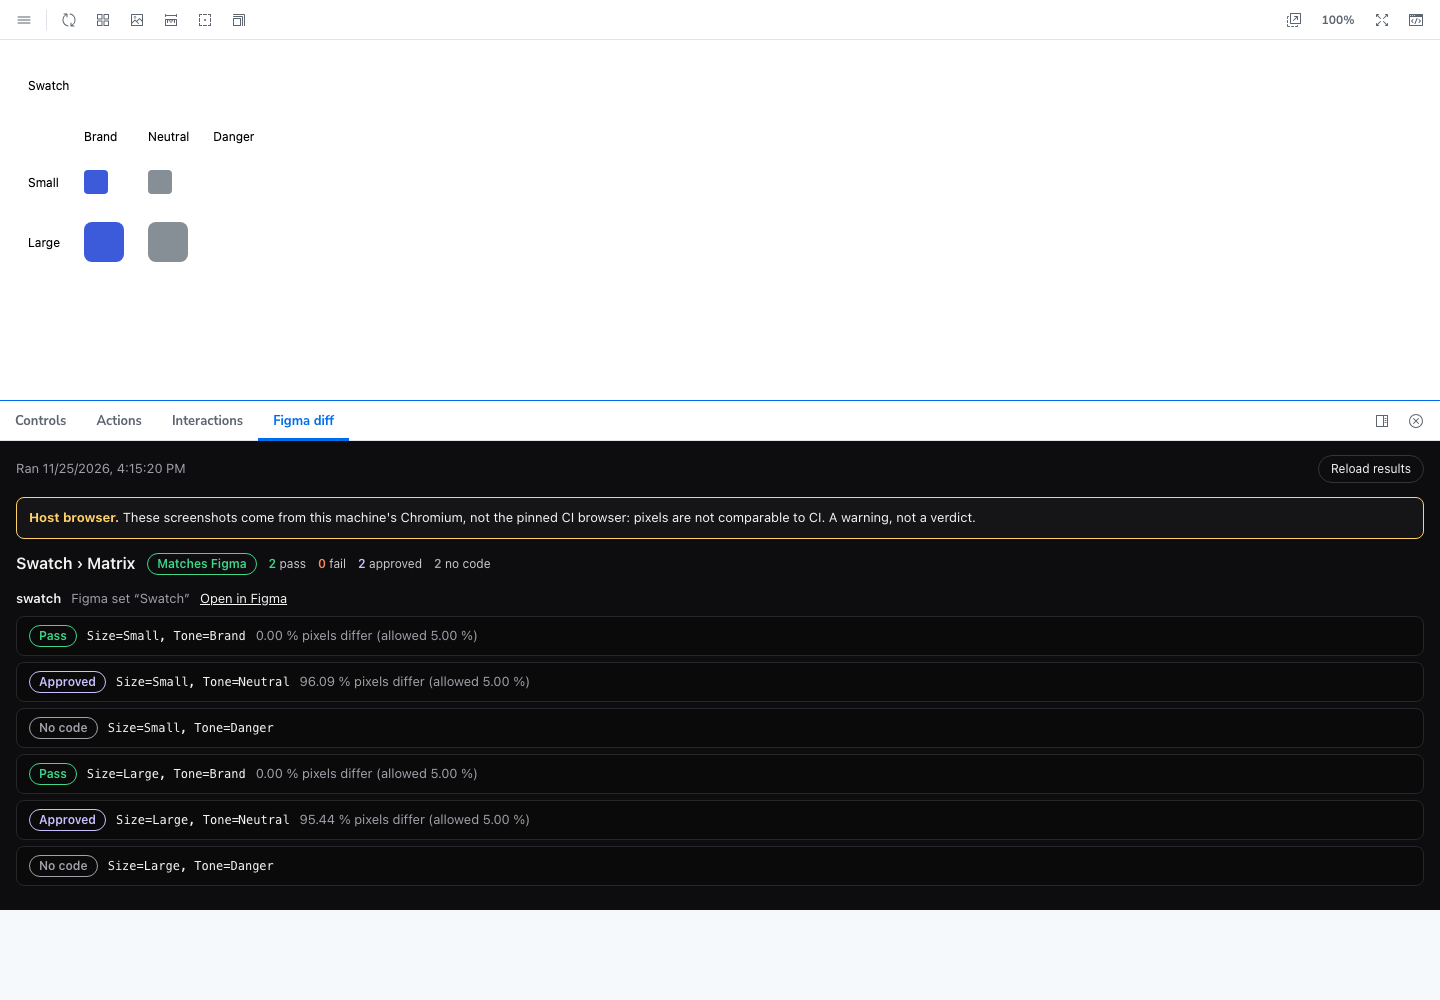
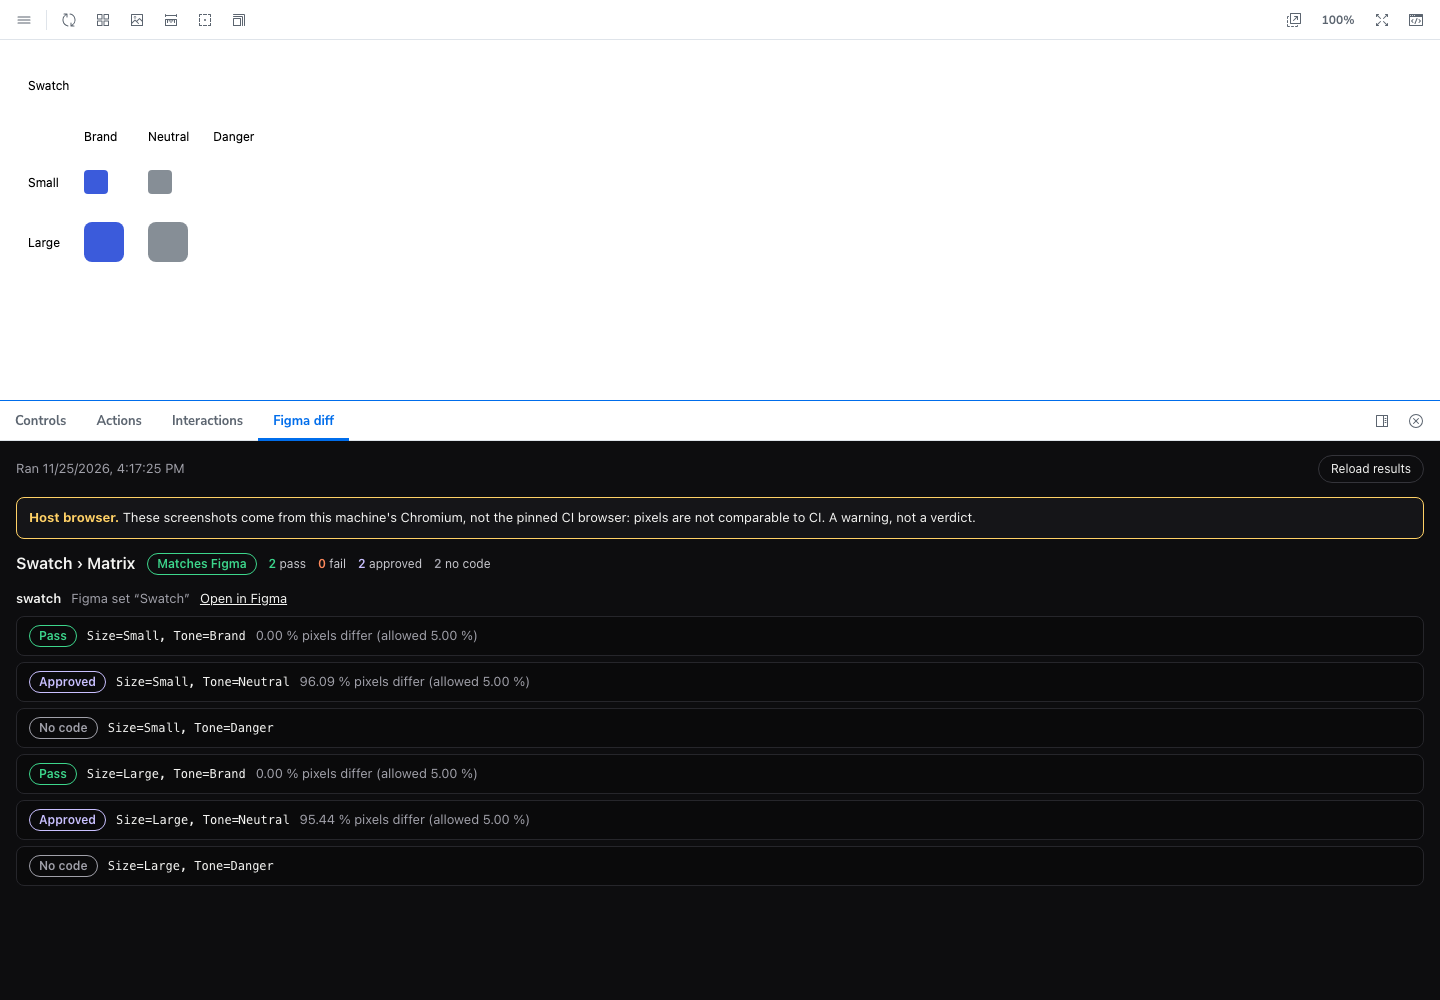
fix(ui): fill the Figma diff panel when results are short
The scroll container is transparent, so a short result list left the
manager's light background under the dark panel.

Changed region(s): [[0.0, 0.899, 1.0, 1.0], [0.0938, 0.465, 0.125, 0.496]]

diff --git a/packages/storybook-figma-qa/src/ui/theme.ts b/packages/storybook-figma-qa/src/ui/theme.ts
@@ -74,7 +74,9 @@ export const FIGMA_QA_CSS = `
 .fqa-page { max-width: 1100px; margin: 0 auto; padding: 32px 20px 64px; display: flex; flex-direction: column; gap: 28px; }
 .fqa-page > header { display: flex; flex-direction: column; gap: 10px; }
 .fqa-page > article + article { padding-top: 24px; border-top: 1px solid var(--line); }
-.fqa-panel { display: flex; flex-direction: column; gap: 14px; padding: 14px 16px 24px; }
+.fqa-panel { display: flex; flex-direction: column; gap: 14px; padding: 14px 16px 24px;
+    /* Fill the addon panel: short results would otherwise leave the manager's light background below them. */
+    min-height: 100%; }
 .fqa-panel__bar { display: flex; flex-wrap: wrap; align-items: center; justify-content: space-between; gap: 8px; }
 .fqa-btn { height: 28px; padding: 0 12px; border-radius: 999px; border: 1px solid var(--line-2); background: transparent;
     color: var(--ink); font: inherit; font-size: 12px; cursor: pointer; }
